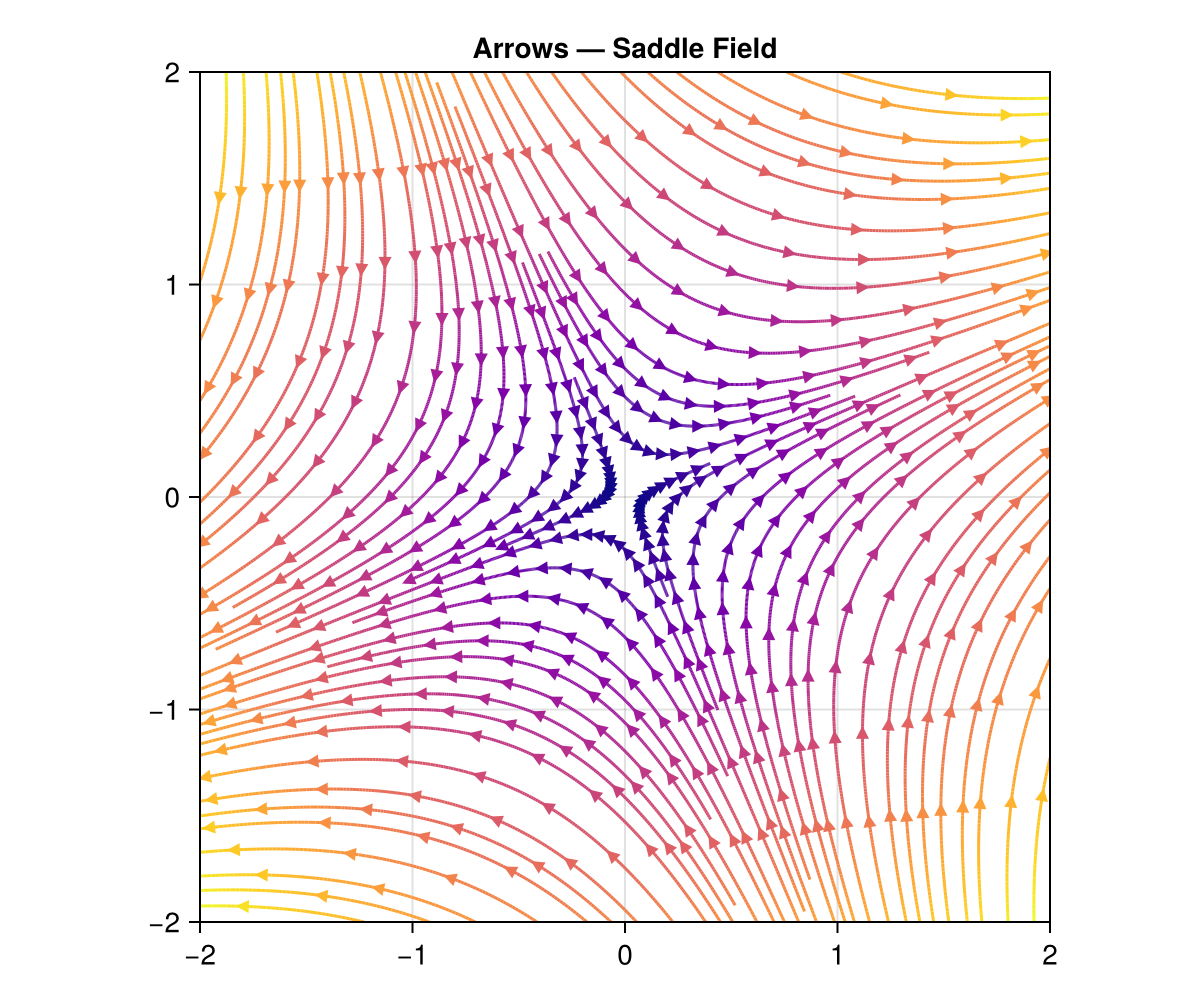
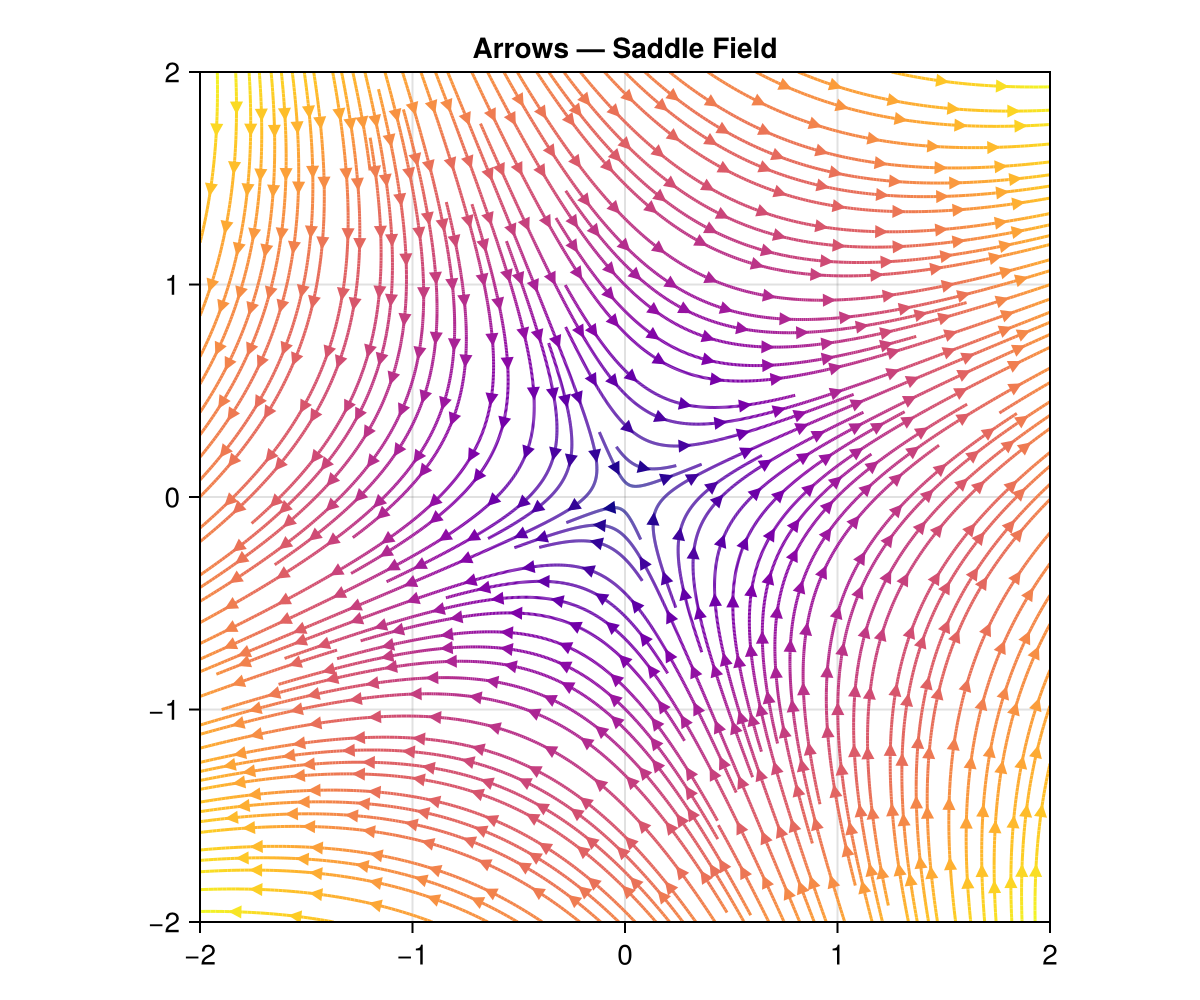
changed default for min_density

Changed region(s): [[0.1542, 0.062, 0.8942, 0.93]]

diff --git a/docs/src/index.md b/docs/src/index.md
@@ -6,7 +6,7 @@ CurrentModule = UniformStreamlines
 
 **Evenly-spaced streamlines for 2-D, 3-D, and N-D vector fields in Julia.**
 
-UniformStreamlines.jl implements the Jobard–Lefer algorithm to produce streamlines that are uniformly distributed across a domain — no clumps, no gaps. It works with function-defined or grid-defined velocity fields and supports Plots.jl and Makie.jl for visualization.
+UniformStreamlines.jl implements the Jobard–Lefer algorithm to produce streamlines that are uniformly distributed across a domain. It works with function-defined or grid-defined velocity fields and supports Plots.jl and Makie.jl for visualization.
 
 ## Installation
 
@@ -23,7 +23,7 @@ using UniformStreamlines
 xs = LinRange(-2, 2, 200)
 ys = LinRange(-2, 2, 200)
 
-str = evenstream(xs, ys, (x, y) -> -y, (x, y) -> x)
+str = evenstream(xs, ys, (x, y) -> -y, (x, y) -> 1 + x - y^2)
 ```
 
 Plot with Plots.jl:
@@ -40,7 +40,9 @@ using CairoMakie
 streamlines(str)
 ```
 
-![Quick Start — Rigid-Body Rotation](assets/quickstart.png)
+<p align="center">
+  <img src="docs/src/assets/quickstart.png" alt="Quick Start" width="500">
+</p>
 
 ## Features
 
@@ -77,7 +79,7 @@ str_dense = evenstream(xs, ys, (x, y) -> -1 - x^2 + y, (x, y) -> 1 + x - y^2;
 
 Both parameters are unitless multipliers that scale an internal base grid of 10 cells per axis:
 
-- **`min_density`** (default `3`) — Controls the *seeding grid*. The domain is divided into `10 × min_density` cells per axis. One candidate seed point is placed per cell, so a higher value means more candidate starting points and denser coverage.
+- **`min_density`** (default `4`) — Controls the *seeding grid*. The domain is divided into `10 × min_density` cells per axis. One candidate seed point is placed per cell, so a higher value means more candidate starting points and denser coverage.
 - **`max_density`** (default `10`) — Controls the *collision-detection grid*. The domain is divided into `10 × max_density` cells per axis. When a streamline is being integrated, it checks this finer grid to decide whether it is too close to an existing streamline. A higher value allows streamlines to pass closer together before being truncated.
 
 The ratio `max_density / min_density` determines how much room there is between the minimum spacing (set by the collision grid) and the seeding spacing. Typical values:
@@ -85,7 +87,7 @@ The ratio `max_density / min_density` determines how much room there is between 
 | Style  | `min_density` | `max_density` |
 |:-------|:--------------|:--------------|
 | Sparse | 2             | 4             |
-| Normal | 3 (default)   | 10 (default)  |
+| Normal | 4 (default)   | 10 (default)  |
 | Dense  | 5–8           | 15–30         |
 
 ![Density Control](assets/density_control.png)
@@ -118,28 +120,34 @@ streamlines(str; line_z=c, color=:viridis)
 
 ### Arrows
 
-Add directional arrows along streamlines. By default, arrows are placed
-uniformly along the arc length of each streamline:
+Add directional arrows along streamlines with `with_arrows=true`. Arrows are placed **uniformly along the arc length** of each streamline by default, so spacing is consistent regardless of how densely the path is sampled:
 
 ```julia
-# Plots.jl
-streamlines(str; with_arrows=true, arrow_scale=0.5)
+# Makie — uniform arrows with automatic spacing
+streamlines(str; with_arrows=true)
 
-# Makie
+# Plots.jl
 streamlines(str; with_arrows=true)
 ```
 
-Explicit spacing control:
+![Arrows — Saddle Field](assets/arrows.png)
+
+You can control the arc-length distance between arrows with `arrows_spacing`:
 
 ```julia
-# Set arc-length spacing manually
-streamlines(str; with_arrows=true, arrows_spacing=0.3)
+# Tighter arrow spacing
+streamlines(str; with_arrows=true, arrows_spacing=0.15)
 
-# Legacy vertex-based placement (every N-th vertex)
-streamlines(str; with_arrows=true, arrows_every=20)
+# Wider arrow spacing
+streamlines(str; with_arrows=true, arrows_spacing=0.5)
 ```
 
-![Arrows — Saddle Field](assets/arrows.png)
+Alternatively, use `arrows_every` to place an arrow every N-th path vertex. This is faster but produces non-uniform spacing when vertex density varies:
+
+```julia
+# Vertex-based placement (non-uniform)
+streamlines(str; with_arrows=true, arrows_every=20)
+```
 
 Control arrow size with `markersize` (Makie) or `arrow_scale` (Plots.jl):
 
@@ -286,7 +294,7 @@ Both forms accept the same keyword arguments (`min_density`, `max_density`, `see
 
 | Keyword | Default | Description |
 |:--------|:--------|:------------|
-| `min_density` | `3` | Seeding grid density (`10 × min_density` cells/axis). Higher → more seed candidates → denser coverage. |
+| `min_density` | `4` | Seeding grid density (`10 × min_density` cells/axis). Higher → more seed candidates → denser coverage. |
 | `max_density` | `10` | Collision grid density (`10 × max_density` cells/axis). Higher → streamlines may pass closer together. |
 | `seeds` | `nothing` | Explicit seed points (tuple/vector of D-vectors) |
 | `min_length` | `2` | Discard streamlines with fewer than this many vertices |

diff --git a/README.md b/README.md
@@ -32,7 +32,7 @@ ys = LinRange(-2, 2, 200)
 
 # From functions
 u(x,y) = -y
-v(x,y) = x
+v(x,y) = 1 + x - y^2
 str = evenstream(xs, ys, u, v)
 
 # From matrices
@@ -92,6 +92,21 @@ Built-in color symbols: `:norm` (or `:speed`), `:vx` (or `:u`), `:vy` (or `:v`),
 <p align="center">
   <img src="docs/src/assets/coloring.png" alt="Coloring by Speed" width="500">
 </p>
+
+### Arrows
+
+Add directional arrows with `with_arrows=true`. Arrows are placed uniformly along the arc length of each streamline by default:
+
+```julia
+# Uniform arrows (default)
+streamlines(str; with_arrows=true)
+
+# Control spacing explicitly
+streamlines(str; with_arrows=true, arrows_spacing=0.15)
+
+# Vertex-based placement (non-uniform, but faster)
+streamlines(str; with_arrows=true, arrows_every=20)
+```
 
 ### NaN Masking
 
